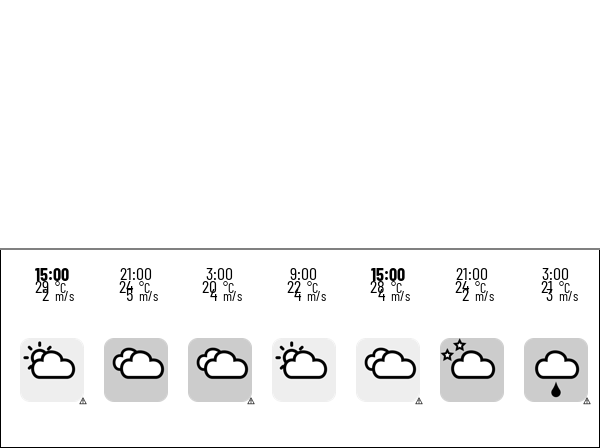
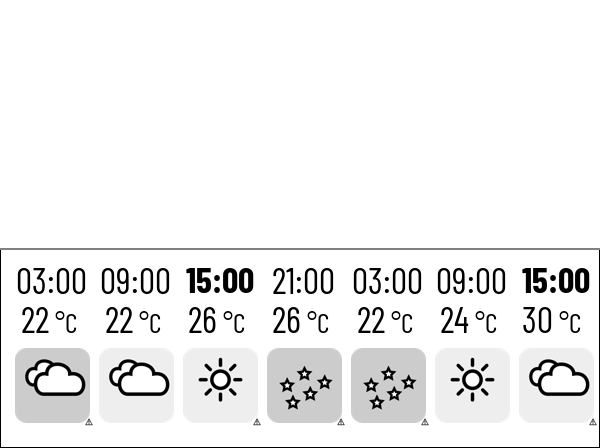
adjusted size and font

Changed region(s): [[0.0, 0.5938, 0.84, 0.9688], [0.87, 0.5938, 0.99, 0.9062], [0.99, 0.9375, 1.0, 0.9688]]

diff --git a/eInk-weather-display/forecast_panel.py b/eInk-weather-display/forecast_panel.py
@@ -12,7 +12,7 @@ from type_alias import Fonts, Icons, WeatherData
 def get_forecasts_panel(forecast_data: WeatherData, images: Icons, fonts: Fonts, config: SectionProxy) -> tuple[Image.Image, tuple[str, str]]:
   logger = logging.getLogger(__name__)
   logger.info('Generating forecast panel')
-  icon_width = 64
+  icon_width = 75
   x_size = 600
   y_size = 200
   (forecasts, position, position_name, _) = forecast_data
@@ -38,13 +38,13 @@ def get_forecasts_panel(forecast_data: WeatherData, images: Icons, fonts: Fonts,
     is_daylight = get_is_daylight(position, date)
     data = forecasts[date]
     date_local = utils.utc_datetime_string_to_local_datetime(date)
-    date_formatted = date_local.strftime('%-H:%M')
+    date_formatted = date_local.strftime('%H:%M')
 
     # Time
     draw.text((x_base + i*x_step, data_y_base + 10), date_formatted, font=(fonts['font_sm'] if date_formatted != "15:00" else fonts['font_sm_bold']), fill=0, anchor='mt')
 
     # Weather icon
-    icon_position = (x_base + i*x_step - icon_width//2, data_y_base + 80)
+    icon_position = (x_base + i*x_step - icon_width//2, data_y_base + 90)
     weather_icon = icons.get_scaled_image(get_forecats_weather_icon(data['WeatherSymbol3'], is_daylight, images, fonts, config), icon_width)
     image.paste(weather_icon, icon_position, weather_icon)
 
@@ -52,9 +52,9 @@ def get_forecasts_panel(forecast_data: WeatherData, images: Icons, fonts: Fonts,
     draw_utils.draw_warning_icons(data["Temperature"], date_local, images, image, weather_icon, icon_position, config)
 
     # Temperature
-    utils.draw_quantity(draw, (x_base + i*x_step, data_y_base + 35), str(round(data["Temperature"])), '°C', fonts)
+    utils.draw_quantity(draw, (x_base + i*x_step, data_y_base + 75), str(round(data["Temperature"])), '°C', fonts)
     # Wind speed
-    utils.draw_quantity(draw, (x_base + i*x_step, data_y_base + 43), str(round(data["WindSpeedMS"])), 'm/s', fonts)
+    #utils.draw_quantity(draw, (x_base + i*x_step, data_y_base + 43), str(round(data["WindSpeedMS"])), 'm/s', fonts)
 
     # Cloud cover
     cloud_cover_raw = data["TotalCloudCover"]

diff --git a/eInk-weather-display/info_panel.py b/eInk-weather-display/info_panel.py
@@ -13,8 +13,8 @@ def get_info_panel(fonts: Fonts, config: SectionProxy) -> Image.Image:
   image = Image.new('L', (x_size, y_size), 0xff)
   draw = ImageDraw.Draw(image)
 
-  draw.text((x_size//2, 20), f'{time.strftime("%-H:%M")}', fill="black", font=fonts['font_md'], anchor='mt')
-  draw.text((x_size//2, 180), f'{time.strftime("%-d.%-m.%Y")}', fill="black", font=fonts['font_sm'], anchor='ms')
+  draw.text((x_size//2, 20), f'{time.strftime("%H:%M")}', fill="black", font=fonts['font_md'], anchor='mt')
+  draw.text((x_size//2, 180), f'{time.strftime("%d.%m.%Y")}', fill="black", font=fonts['font_sm'], anchor='ms')
 
   if (config.getboolean('USE_RANDOM_DATA')):
     draw.text((x_size//2, 250), '(Fake data)', fill="black", font=fonts['font_xxs'], anchor='ms')

diff --git a/eInk-weather-display/utils.py b/eInk-weather-display/utils.py
@@ -58,7 +58,7 @@ def get_epd_data(config: SectionProxy) -> tuple[Optional[ctypes.CDLL], tuple[int
 
 def get_fonts(config: SectionProxy) -> Fonts:
   if (is_supported_epd(config.get('EPD_MODEL'))):
-    font_mult = 1
+    font_mult = 2
   else:
     raise Exception(f'Unsupported model: {config.get("EPD_MODEL")}')
 
